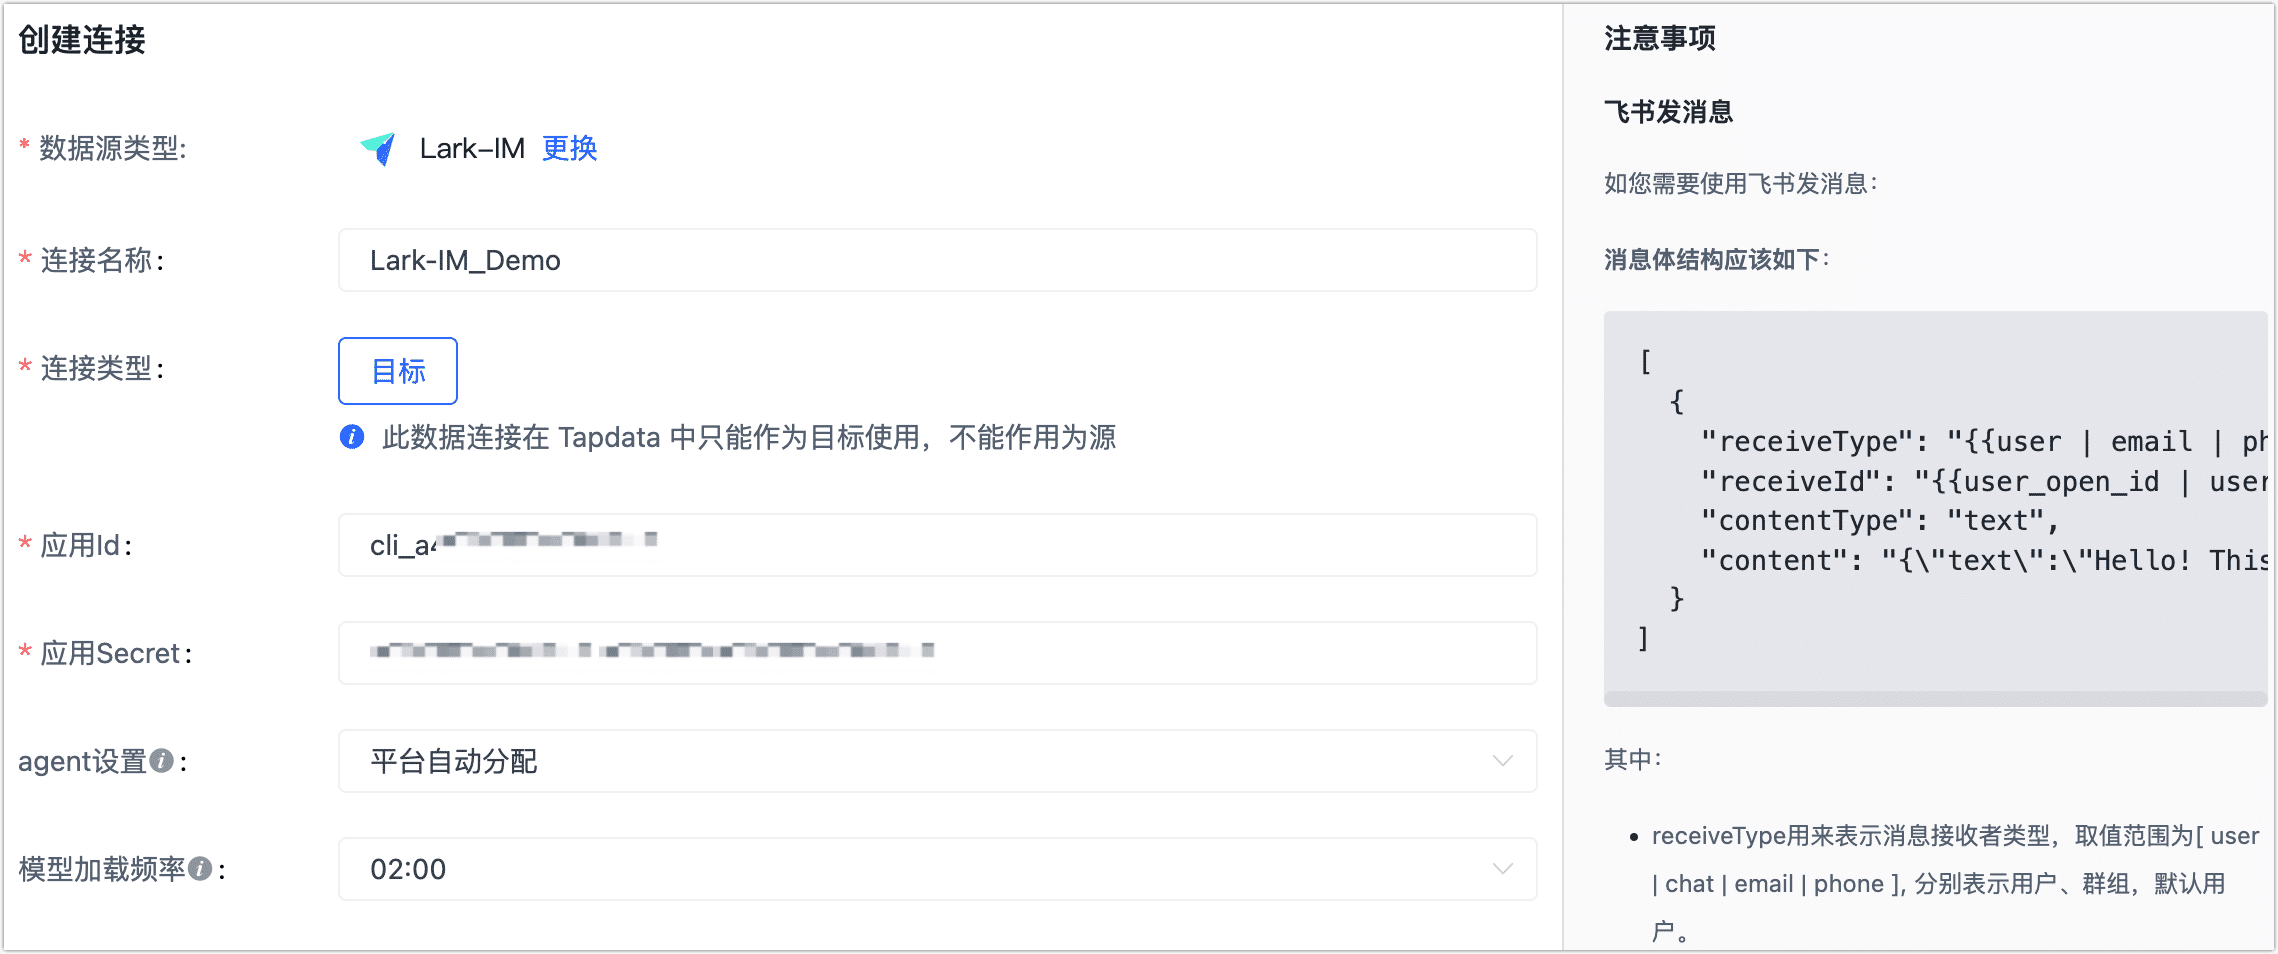
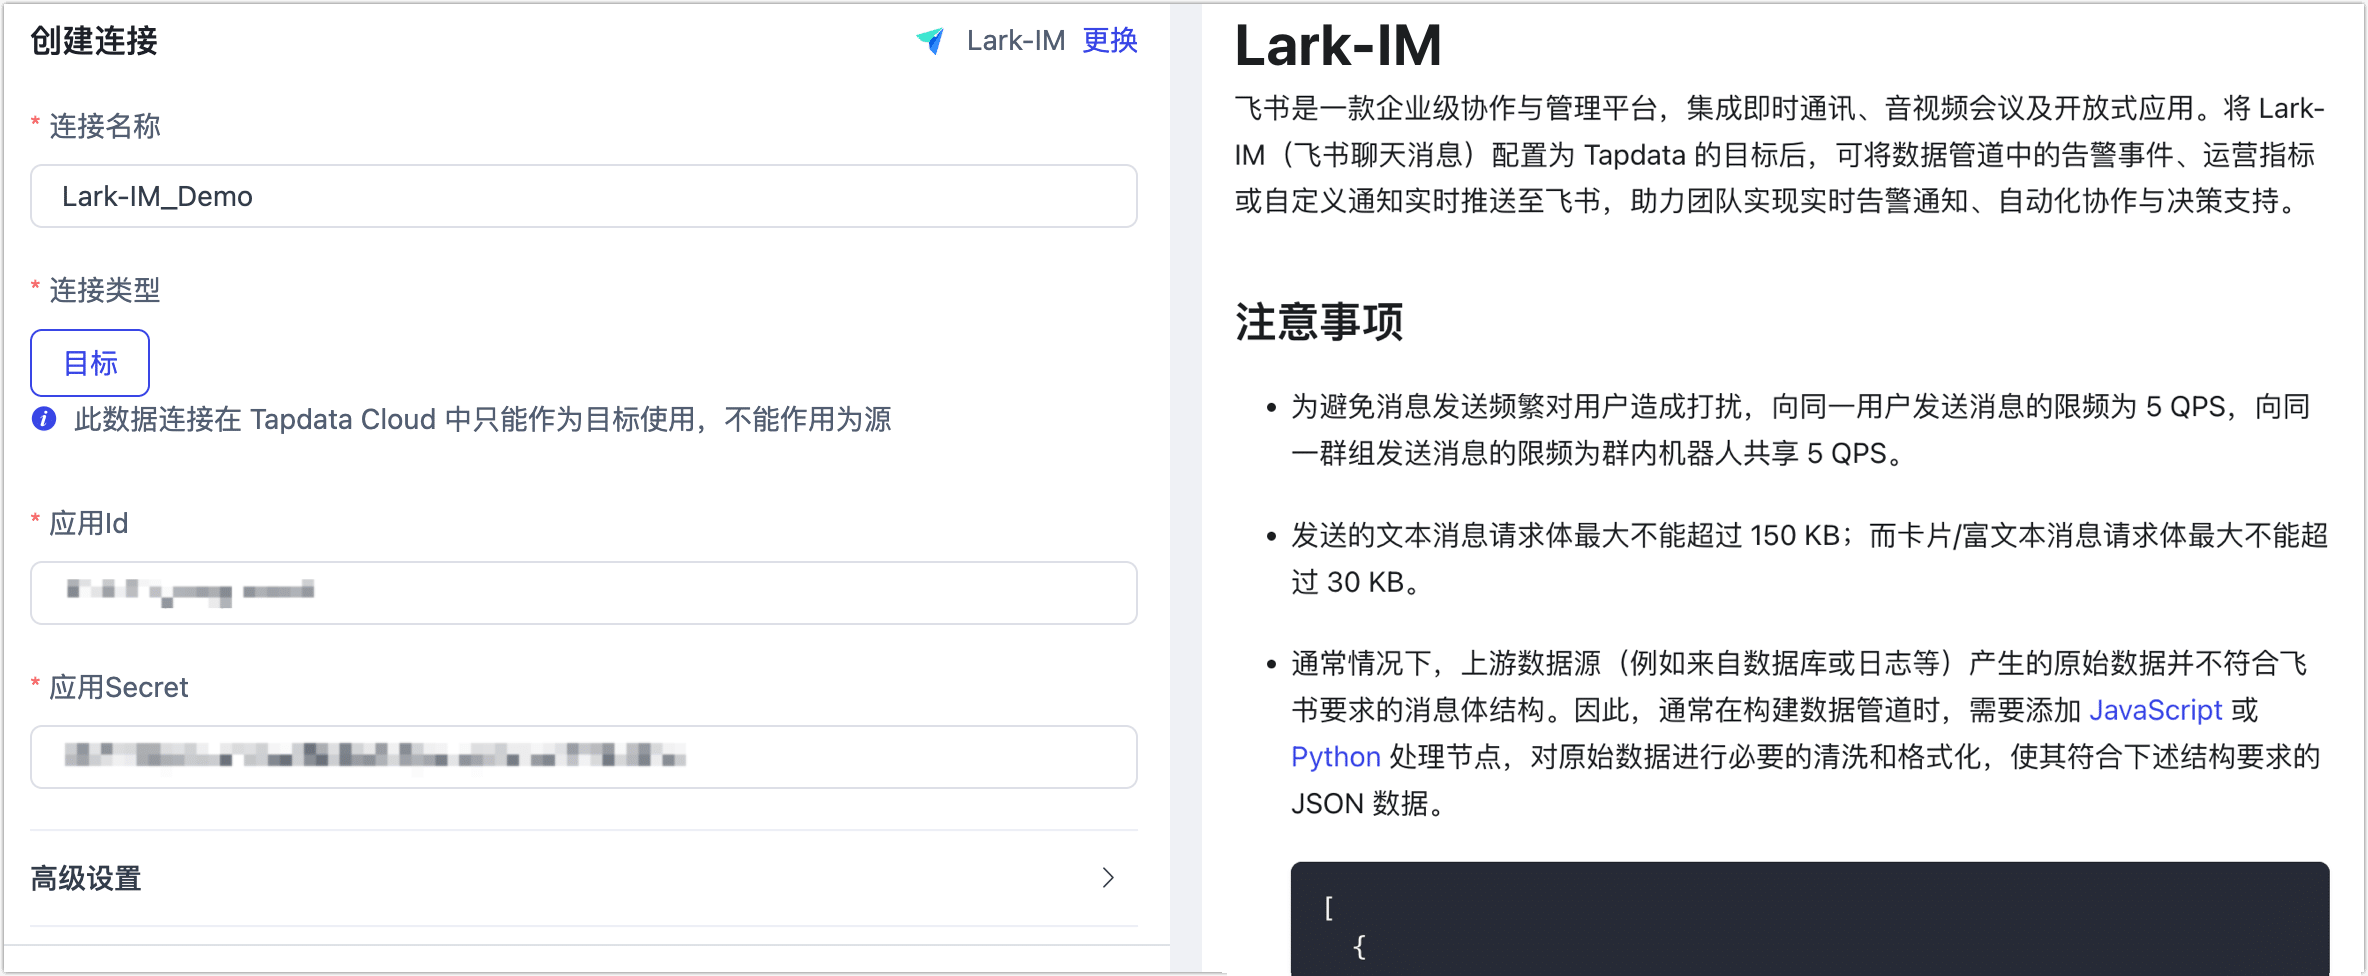
Update Lark-IM Connection Tutorial

diff --git a/docs/prerequisites/saas-and-api/lark-im.md b/docs/prerequisites/saas-and-api/lark-im.md
@@ -3,7 +3,42 @@ import Content from '../../reuse-content/_enterprise-and-cloud-features.md';
 
 <Content />
 
-飞书是一款协作与管理平台，支持即时通讯、音视频会议等功能。完成 Agent 部署后，您可以跟随本文教程在 Tapdata 中添加  Lark-IM（飞书聊天消息）数据源，后续可将其作为目标库来构建数据管道。
+飞书是一款企业级协作与管理平台，集成即时通讯、音视频会议及开放式应用。将 Lark-IM（飞书聊天消息）配置为 Tapdata 的目标后，可将数据管道中的告警事件、运营指标或自定义通知实时推送至飞书，助力团队实现实时告警通知、自动化协作与决策支持。
+
+## 注意事项
+
+- 为避免消息发送频繁对用户造成打扰，向同一用户发送消息的限频为 5 QPS，向同一群组发送消息的限频为群内机器人共享 5 QPS。
+
+- 发送的文本消息请求体最大不能超过 150 KB；而卡片/富文本消息请求体最大不能超过 30 KB。
+
+- 通常情况下，上游数据源（例如来自数据库或日志等）产生的原始数据并不符合飞书要求的消息体结构。因此，通常在构建数据管道时，需要添加  [JavaScript](../../user-guide/data-development/process-node.md#js-process) 或 [Python](../../user-guide/data-development/process-node.md#python) 处理节点，对原始数据进行必要的清洗和格式化，使其符合下述结构要求的 JSON 数据。 
+
+  ```json
+  [
+    {
+      "receiveType": "{{user | email | phone | chat}}",
+      "receiveId": "{{user_open_id | user_email | user_phone | chat_id}}",
+      "contentType": "text",
+      "content": "{\"text\":\"Hello! This is lark message! \"}"
+    }
+  ]
+  ```
+
+<details>
+  <summary>字段说明</summary>
+
+
+  | 字段名          | 含义                                                         |
+  | --------------- | ------------------------------------------------------------ |
+  | **receiveType** | 接收者类型，取值范围为： `user`（默认）、`chat`、`email`、`phone` |
+  | **receiveId**   | 对应的接收人标识，需在应用的可见范围内，否则消息将发送失败   |
+  | **contentType** | 消息类型，如 `text`、`interactive`（卡片）等                 |
+  | **content**     | 消息体内容，需为字符串化后的 JSON 格式                       |
+
+  更多字段介绍，见[官方文档](https://open.feishu.cn/document/uAjLw4CM/ukTMukTMukTM/im-v1/message/create_json)。
+  </details>
+
+
 
 ## <span id="prerequisite">准备工作</span>
 
@@ -20,39 +55,37 @@ import Content from '../../reuse-content/_enterprise-and-cloud-features.md';
 3. 在左侧导航栏，单击**凭证与基础信息**，获取 App ID 和 App Secret 信息，后续将在连接数据源时使用。
 
    ![](../../images/obtain_feishu_app_ak.png)
+   
+4. [设置应用可用范围](https://open.feishu.cn/document/develop-process/test-and-release-app/availability)，确保飞书消息的目标用户或群组已纳入飞书自建应用的可见范围，避免消息接受失败。
 
-## 注意事项
+5. 为应用开启[机器人能力](https://open.feishu.cn/document/uAjLw4CM/ugTN1YjL4UTN24CO1UjN/trouble-shooting/how-to-enable-bot-ability)，注意需要应用发布后才能生效。
 
-### 飞书发消息
 
-如您需要使用飞书发消息：
 
-***消息体结构应该如下***：
+## 添加数据源
 
-```json
-[
-  {
-    "receiveType": "{{user | email | phone | chat}}",
-    "receiveId": "{{user_open_id | user_email | user_phone | chat_id}}",
-    "contentType": "text",
-    "content": "{\"text\":\"Hello! This is lark message! \"}"
-  }
-]
-```
+1. [登录 Tapdata 平台](../../user-guide/log-in.md)。
 
-其中：
+2. 在左侧导航栏，单击**连接管理**。
 
-- receiveType用来表示消息接收者类型，取值范围为[ user | chat | email | phone ], 分别表示用户、群组，默认用户。
-- contentType ***text*** | ***post*** | ***image*** | ***interactive*** | ***share_chat*** | ***share_user*** | ***audio*** | ***media*** | ***file*** | ***sticker***，默认***text***。 具体的消息类型可查看官方文档上的描述：https://open.feishu.cn/document/uAjLw4CM/ukTMukTMukTM/im-v1/message/create_json
-- receiveId 为消息接收者的***open_id***或***手机号***或***邮箱***或***群聊的chat_id***，APP通过这个字段来发送消息到指定的用户或群聊。
+3. 在页面右侧，单击**创建连接**。
 
-1. 您需要使用用户的注册手机号或邮箱发送指定消息到此人；
-2. 您需要保证当前手机号或邮箱的使用者存在于此应用的可见范围，如不在当前应用版本的可见范围，将无法发送消息到这个用户，如有必要，您可在应用版本管理与发布中查看最新版本下的可见范围，并创建新的版本并将此用户添加到可见范围。
+4. 在弹出的对话框中，搜索并选择 **Lark-IM**。
 
-![img](https://tapdata-bucket-01.oss-cn-beijing.aliyuncs.com/FeiShu/doc/version.PNG)
+5. 根据下述说明完成数据源配置。
 
-![img](https://tapdata-bucket-01.oss-cn-beijing.aliyuncs.com/FeiShu/doc/rang.PNG)
+   ![Lark IM 连接设置](../../images/lark-im_connection_setting.png)
 
-![img](https://tapdata-bucket-01.oss-cn-beijing.aliyuncs.com/FeiShu/doc/createdVersion.PNG)
+   * **连接名称**：填写具有业务意义的独有名称。
+   * **连接类型**：仅支持作为**目标**。
+   * **应用 ID**、**应用 Secret**：可通过飞书开放平台获取，具体操作，见[准备工作](#prerequisite)。
+   * **agent 设置**：默认为**平台自动分配**，您也可以手动指定。
+   * **模型加载频率**：数据源中模型数量大于 1 万时，Tapdata 将按照本参数的设定定期刷新模型。
 
-![img](https://tapdata-bucket-01.oss-cn-beijing.aliyuncs.com/FeiShu/doc/modifyRang.PNG)
+6. 单击**连接测试**，测试通过后单击**保存**。
+
+   :::tip
+
+   如提示连接测试失败，请根据页面提示进行修复。
+
+   :::
